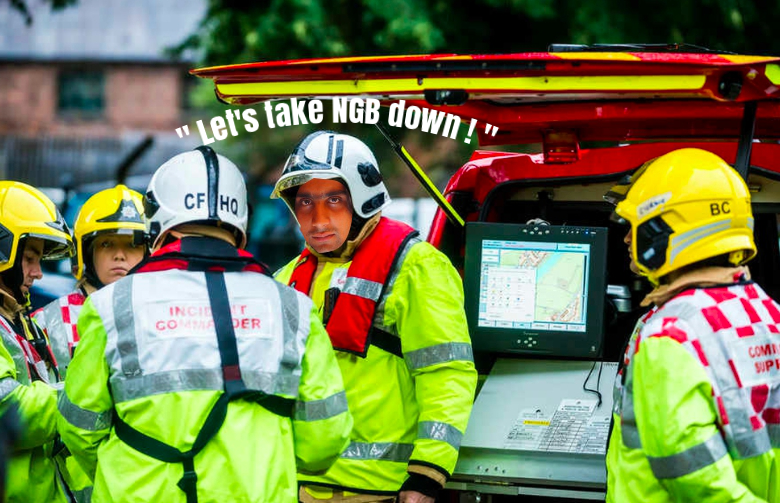
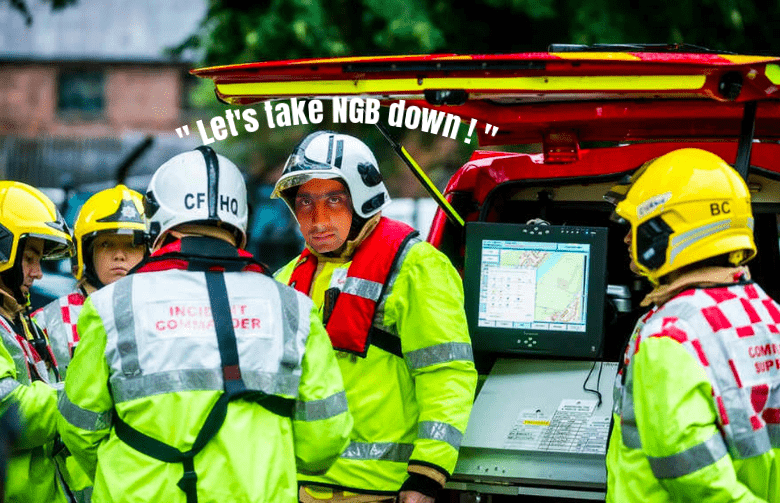
compressed images, altered width

diff --git a/index.html b/index.html
@@ -3,12 +3,12 @@
 <meta name="viewport" content="width=device-width, initial-scale=1">
 <style>
 .responsive {
-    width: 40%;
+    width: 60%;
     height: auto;
     display: block;
     margin-left: auto;
     margin-right: auto;
-    margin-bottom: 100px;
+    margin-bottom: 80px;
 }
 </style>
 </head>
